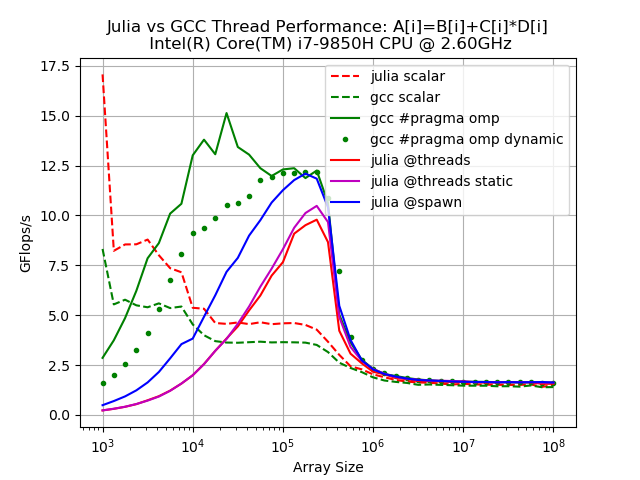
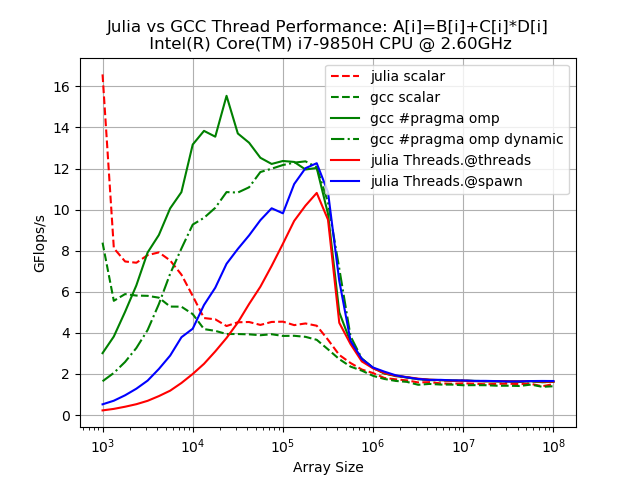
Version 2 of diagrams: avx for shared arrays, dynamic scheduling for gcc

diff --git a/parallel/cvtriad.c b/parallel/cvtriad.c
@@ -32,7 +32,7 @@ void vtriad(int N, int nrepeat)
   }
   
   // Timing variables
-  double t0,t_scalar, t_parallel;
+  double t0,t_scalar, t_parallel, t_dparallel;
   
   // Run parallel version
   // Outer loop is for averaging results
@@ -46,7 +46,18 @@ void vtriad(int N, int nrepeat)
         d[i]=a[i]+b[i]*c[i];
       }
   t_parallel=omp_get_wtime()-t0;
+
   
+  t0=omp_get_wtime();
+  for (j=0; j<nrepeat;j++)
+#pragma omp parallel for schedule(dynamic,N/(omp_get_max_threads())) 
+      for (i=0;i<N;i++)
+      {
+        d[i]=a[i]+b[i]*c[i];
+      }
+  t_dparallel=omp_get_wtime()-t0;
+  
+
   // Run scalar version
   t0=omp_get_wtime();
   for (j=0; j<nrepeat;j++)
@@ -58,7 +69,7 @@ void vtriad(int N, int nrepeat)
 
   double GFlops=N*nrepeat*2.0/1.0e9;
 
-  printf("% 10d % 10.3f % 10.3f % 10.3f\n", N, GFlops/t_scalar,GFlops/t_parallel,t_scalar/t_parallel);
+  printf("% 10d % 10.3f % 10.3f % 10.3f\n", N, GFlops/t_scalar,GFlops/t_parallel,GFlops/t_dparallel);
   
   /* Free heap memory*/
   free(a);
@@ -118,7 +129,7 @@ int main(int argc, char *argv[])
   
   /* File header */
   printf("# nthreads=%d\n",omp_get_max_threads());
-  printf("#        N   S_GFlops/s  P_GFlops/s  speedup\n");
+  printf("#        N   S_GFlops/s  P_GFlops/s  Pd_GFlops/s\n");
   
   for (irun=0;irun<nrun;irun++)
   {
